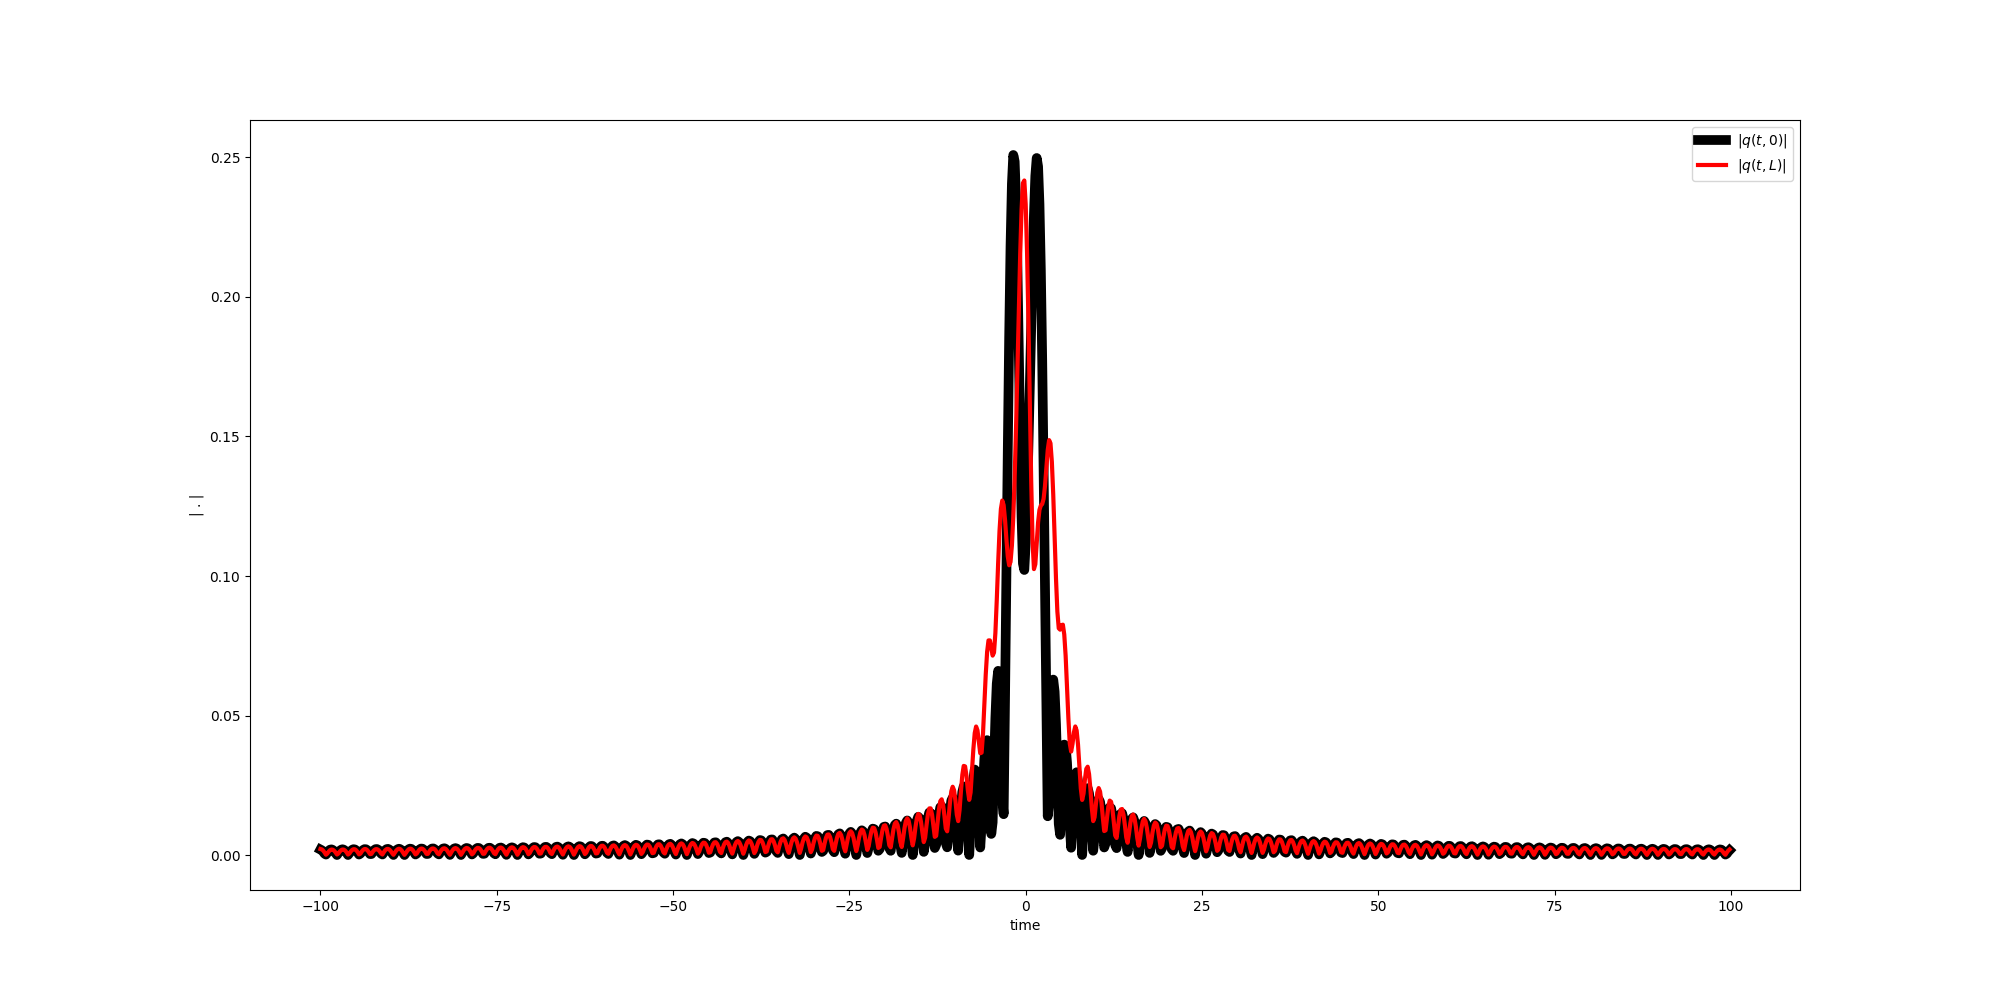
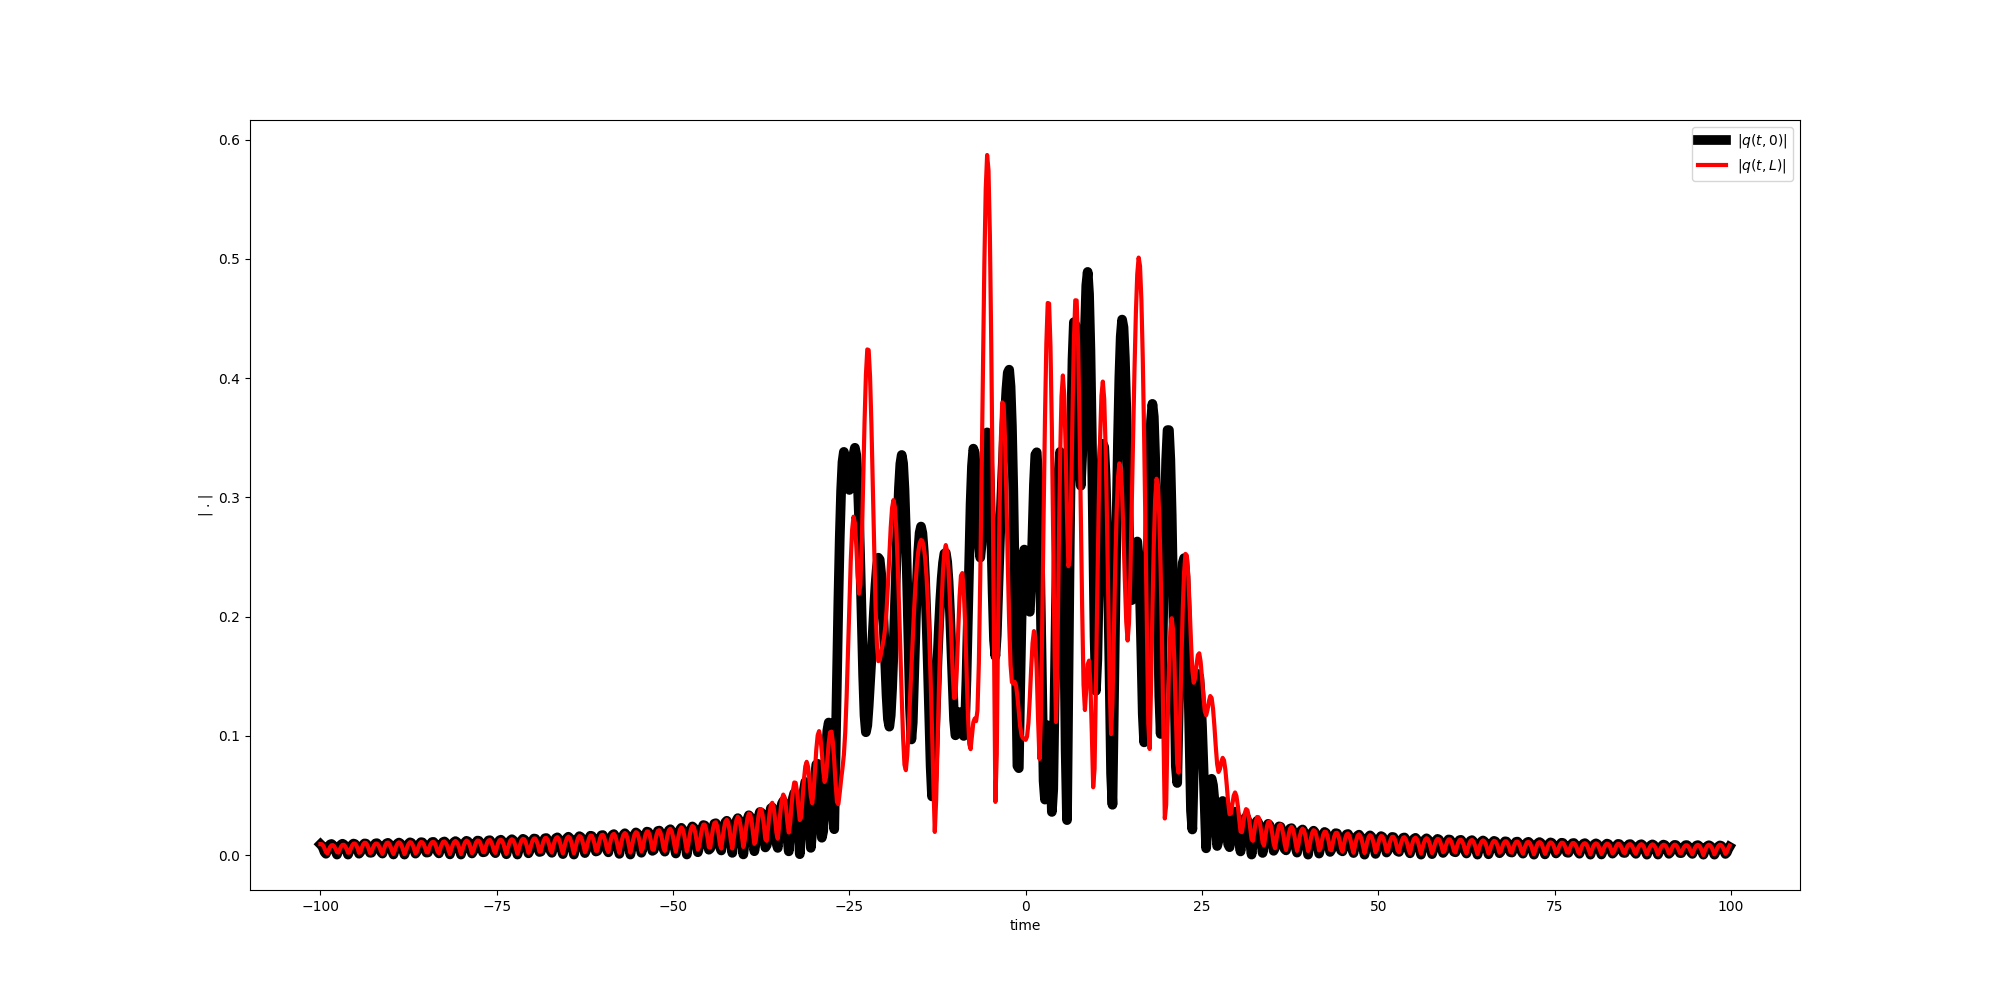
FFN created and add noise

Changed region(s): [[0.155, 0.155, 0.868, 0.868], [0.093, 0.713, 0.124, 0.744]]

diff --git a/FFN.py b/FFN.py
@@ -1,0 +1,94 @@
+import tensorflow as tf
+import numpy as np
+import matplotlib.pyplot as plt
+
+
+class FFN:
+
+    def __init__(self, xtrain, ytrain, xtest, ytest, xvalidation, yvalidation,
+                 batch_size=1000, epochs=1000, learning_rate=1,
+                 build_model=True, save_model=True, draw_model=True,
+                 show_summary=False, show_verbose=True):
+
+        self.xtrain = xtrain
+        self.ytrain = ytrain
+        self.xtest = xtest
+        self.ytest = ytest
+        self.xvalidation = xvalidation
+        self.yvalidation = yvalidation
+
+        self.batch_size = batch_size
+        self.epochs = epochs
+        self.learning_rate = learning_rate
+        self.build_model = build_model
+        self.save_model = save_model
+        self.draw_model = draw_model
+        self.show_summary = show_summary
+        self.show_verbose = show_verbose
+
+        if self.build_model:
+
+            self.build_my_model()
+
+    def build_my_model(self):
+
+        self.N = int(self.xtrain.shape[1])
+
+        self.input_layer = tf.keras.layers.Input(
+            self.xtrain.shape[1:], name='Input')
+
+        self.flatten1 = tf.keras.layers.Flatten(name='Flatten1')(self.input_layer)
+
+        self.dense1 = tf.keras.layers.Dense(
+            units=2**9, activation='tanh', name='Dense1')(self.flatten1)
+
+        self.dense2 = tf.keras.layers.Dense(
+            units=2**7, activation='tanh', name='Dense2')(self.dense1)
+
+        self.dense3 = tf.keras.layers.Dense(
+            units=2**7, activation='tanh', name='Dense3')(self.dense2)
+
+        self.dense4 = tf.keras.layers.Dense(
+            units=2**8, activation='tanh', name='Dense4')(self.dense3)
+
+        self.output_layer = tf.keras.layers.Dense(
+            units=self.N*2, activation='linear', name='Output')(self.dense4)
+
+        self.my_model = tf.keras.models.Model(
+            inputs=self.input_layer, outputs=self.output_layer)
+
+        self.my_loss = tf.keras.losses.MeanSquaredError()
+
+        self.my_optimizer = tf.keras.optimizers.SGD(lr=self.learning_rate)
+
+        self.my_model.compile(loss=self.my_loss, optimizer=self.my_optimizer)
+
+        if self.show_summary:
+
+            self.my_model.summary()
+        
+        if self.draw_model:
+            
+            tf.keras.utils.plot_model(self.my_model,'/app/Predictors/FFN/FFN.png',show_shapes=True)
+
+    def fit(self):
+
+        self.history = self.my_model.fit(x=self.xtrain, y=self.ytrain,
+                                         batch_size=self.batch_size, epochs=self.epochs,
+                                         verbose=self.show_verbose, validation_data=(self.xvalidation,
+                                                                                     self.yvalidation))
+        
+        self.loss = self.history.history['loss']
+        
+        self.val_loss = self.history.history['val_loss']
+
+        plt.figure(figsize=(20,10))
+        
+        plt.plot(self.loss,color='blue',lw=3,label="train loss")
+        plt.plot(self.val_loss,color='red',lw=3,label='val loss')
+        
+        plt.legend()
+        
+        plt.savefig('/app/Predictors/FFN/FFN_loss_val_train.png')
+        
+        plt.clf()

diff --git a/main_test_generative.py b/main_test_generative.py
@@ -38,35 +38,37 @@ y = NNET_GEN.nnet_generator(x=x)
 
 print(np.sum(np.abs(y)**2))
 
-# plt.figure(figsize=(20,10))
+plt.figure(figsize=(20,10))
 
-# plt.xlabel(r'time')
-# plt.ylabel(r'| . |')
-# plt.plot(params.t,np.abs(x),color='black',label=r'$|q(t,0)|$',lw=7)
-# plt.plot(params.t,np.abs(y),color='red',label=r'$|q(t,L)|$',lw=3)
+plt.xlabel(r'time')
+plt.ylabel(r'| . |')
+plt.plot(params.t,np.abs(x),color='black',label=r'$|q(t,0)|$',lw=7)
+plt.plot(params.t,np.abs(y),color='red',label=r'$|q(t,L)|$',lw=3)
 
-# plt.legend()
-# plt.savefig('plots/q0t_vs_qLt_generaive_model.png')
+plt.legend()
+plt.savefig('plots/q0t_vs_qLt_generaive_model.png')
 
-# plt.clf()
+plt.clf()
 
 q0f = np.fft.fftshift(np.fft.fft(x))
 
 yf = np.fft.fftshift(np.fft.fft(y))
 
-# plt.figure(figsize=(20,10))
+plt.figure(figsize=(20,10))
 
-# plt.xlabel(r'frequency')
-# plt.ylabel(r'| . |')
-# plt.plot(params.f,np.abs(q0f),color='black',label=r'$|q(t,0)|$',lw=7)
-# plt.plot(params.f,np.abs(yf),color='red',label=r'$|q(t,L)|$',lw=3)
+plt.xlabel(r'frequency')
+plt.ylabel(r'| . |')
+plt.plot(params.f,np.abs(q0f),color='black',label=r'$|q(t,0)|$',lw=7)
+plt.plot(params.f,np.abs(yf),color='red',label=r'$|q(t,L)|$',lw=3)
 
-# plt.legend()
-# plt.savefig('plots/q0f_vs_qLf_generaive_model.png')
+plt.legend()
+plt.savefig('plots/q0f_vs_qLf_generaive_model.png')
 
-# print(np.sum(np.abs(y)**2))
+print(np.sum(np.abs(y)**2))
 
 # calculate BER
+
+exit()
 
 print("time : ",time.time() - start_time)
 

diff --git a/main_predictors.py b/main_predictors.py
@@ -1,0 +1,20 @@
+import numpy as np
+from FFN import FFN
+from sklearn.model_selection import train_test_split
+import time
+
+feature_vectors = np.load(file='/app/data/feature_vectors.npy')
+labels = np.load(file='/app/data/labels.npy')
+
+xtrain , xtest , ytrain , ytest = train_test_split(feature_vectors,labels,test_size=0.20)
+
+xtrain , xvalidation , ytrain , yvalidation = train_test_split(xtrain,ytrain,test_size=0.125)
+
+ffn = FFN(xtrain=xtrain,ytrain=ytrain,xtest=xtest,ytest=ytest,
+          xvalidation=xvalidation,yvalidation=yvalidation)
+
+start_time = time.time()
+
+ffn.fit()
+
+print(time.time() - start_time)

diff --git a/nnet_gen.py b/nnet_gen.py
@@ -65,8 +65,9 @@ class Generative_Model:
             
             x = self.activation(x,dz)
             
-            # x = x + self.noise(n=n,sigma2=0)
             
+            x = x + self.noise(n=n,sigma2=self.params.sigma2)
+    
         y = x
         
         return y

diff --git a/test.py b/test.py
@@ -3,6 +3,12 @@ from numpy.core.defchararray import count
 from data import DataGenerator
 import matplotlib.pyplot as plt
 
+a = np.load('data/feature_vectors.npy')
+print(a.shape)
+b = np.load('data/labels.npy')
+print(b.shape)
+exit()
+
 # Test Draw Constellation
 
 '''
